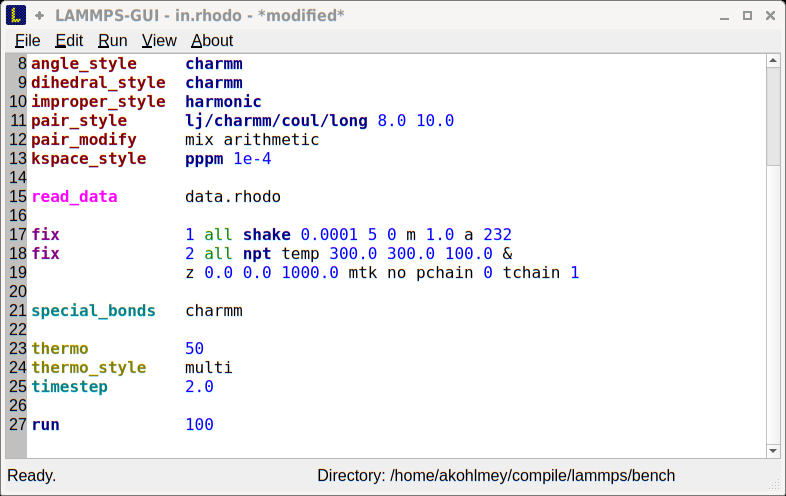
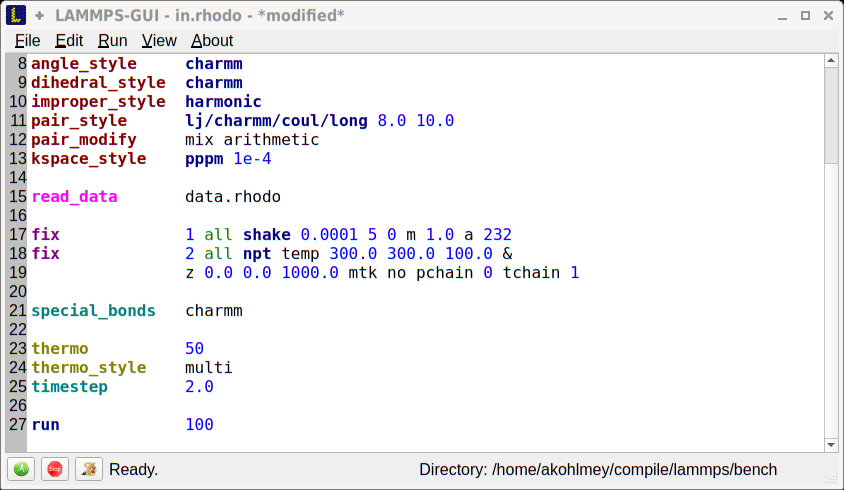
update docs for LAMMPS GUI

diff --git a/doc/src/Howto_lammps_gui.rst b/doc/src/Howto_lammps_gui.rst
@@ -65,12 +65,13 @@ Running LAMMPS
 ^^^^^^^^^^^^^^
 
 From within the LAMMPS GUI main window LAMMPS can be started either from
-the ``Run`` menu or by the hotkey `Ctrl-Enter` (`Command-Enter` on
-macOS).  LAMMPS is running in a separate thread, so the GUI will stay
-responsive and thus is capable to interact with the calculation and
-access its data.  It is important to note, that LAMMPS is using the
-contents of the input buffer for the run, **not** the file it was read
-from. If there are unsaved changes in the buffer, they *will* be used.
+the ``Run`` menu, by the hotkey `Ctrl-Enter` (`Command-Enter` on macOS),
+or by clicking on the green button in the status bar.  LAMMPS runs in a
+separate thread, so the GUI stays responsive and thus it is able to
+interact with the calculation and access its data.  It is important to
+note, that LAMMPS is using the contents of the input buffer for the run,
+**not** the file it was read from. If there are unsaved changes in the
+buffer, they *will* be used.
 
 .. image:: JPG/lammps-gui-running.png
    :align: center
@@ -82,48 +83,59 @@ contain the selected number of threads, if thread-parallel acceleration
 was selected in the ``Preferences`` dialog.  On the right side, a
 progress bar is shown that displays the estimated progress on the
 current :doc:`run command <run>`.  Additionally, two windows will open:
-the log window with the captured screen output and the chart window
-with a line graph created from the thermodynamic output of the run.
+the log window with the captured screen output and the chart window with
+a line graph created from the thermodynamic output of the run.
 
 The run can be stopped cleanly by using either the ``Stop LAMMPS`` entry
-in the ``Run`` menu or with the hotkey `Ctrl-/` (`Command-/` on macOS).
-This will cause that the running LAMMPS process will complete the
-current iteration and then stop. This is equivalent to the command
-`timer timeout 0 <timer>` and implemented by calling the
-:cpp:func:`lammps_force_timeout()` function of the LAMMPS C-library
-interface.
+in the ``Run`` menu, the hotkey `Ctrl-/` (`Command-/` on macOS), or
+clicking on the red button in the status bar.  This will cause that the
+running LAMMPS process will complete the current iteration and then
+stop.  This is equivalent to the command `timer timeout 0 <timer>` and
+implemented by calling the :cpp:func:`lammps_force_timeout()` function
+of the LAMMPS C-library interface.
 
 
 Viewing Snapshot Images
 ^^^^^^^^^^^^^^^^^^^^^^^
 
-By selecting the ``View Image`` entry in the ``Run`` menu or by hitting
-the `Ctrl-I` (`Command-I` on macOS) hotkey, LAMMPS gui will issue a
+By selecting the ``View Image`` entry in the ``Run`` menu, by hitting
+the `Ctrl-I` (`Command-I` on macOS) hotkey or by clicking on the
+"palette" button in the status bar, LAMMPS GUI will issue a
 :doc:`write_dump image <dump_image>` command and read the resulting
-snapshot image into an image viewer window.
+snapshot image into an image viewer window.  When possible, LAMMPS
+GUI will try to detect which elements the atoms correspond to (via
+their mass) and then colorize them accordingly. Otherwise just some
+predefined sequence of colors are assigned to different atom types.
 
 .. image:: JPG/lammps-gui-image.png
    :align: center
    :scale: 50%
 
-The image size, some default image quality settings, and some colors
-can be changed in the ``Preferences`` dialog window.  From the image
-viewer window further adjustments can be made: high-quality rendering,
-anti-aliasing, display of box or axes, zoom factor. The the image can
-be rotated horizontally and vertically and it is possible to only
-display the atoms within a predefined group (default is "all").
-After each change, the image is rendered again and the display updated.
+The default image size, some default image quality settings, the view
+style and some colors can be changed in the ``Preferences`` dialog
+window.  From the image viewer window further adjustments can be made:
+actual image size, high-quality rendering, anti-aliasing, view style,
+display of box or axes, zoom factor. The the image can be rotated
+horizontally and vertically and it is possible to only display the atoms
+within a predefined group (default is "all").  After each change, the
+image is rendered again and the display updated.  The small palette icon
+on the top left will be colored while LAMMPS is running to render the
+image and it will be grayed out again, when it is done.  When there are
+many items to show and high quality images with anti-aliasing are
+requested, re-rendering can take several seconds.  From the ``File``
+menu, the shown image can be saved to a file permanently or copied into
+the cut-n-paste buffer for pasting into another application.
 
 
 Editor Functions
 ^^^^^^^^^^^^^^^^
 
-The editor has the usual functionality that similar programs have: text
-selection via mouse or with cursor moves while holding the Shift key,
-Cut, Copy, Paste, Undo, Redo.  All of these editing functions are available
-via hotkeys.  When trying to exit the editor with a modified buffer, a
-dialog will pop up asking whether to cancel the quit, or don't save or
-save the buffer's contents to a file.
+The editor has most the usual functionality that similar programs have:
+text selection via mouse or with cursor moves while holding the Shift
+key, Cut, Copy, Paste, Undo, Redo.  All of these editing functions are
+available via hotkeys.  When trying to exit the editor with a modified
+buffer, a dialog will pop up asking whether to cancel the quit, or don't
+save or save the buffer's contents to a file.
 
 Context Specific Help
 ^^^^^^^^^^^^^^^^^^^^^
@@ -285,6 +297,13 @@ General Settings:
 - *Replace image window on new render:* when checked, an existing
   chart window will be replaced when a new snapshot image is requested,
   otherwise each command will create a new image window.
+- *Path to LAMMPS Shared Library File:* this options is only available
+  when LAMMPS GUI was compiled to load the LAMMPS library at run time
+  instead of being linked to it directly.  With the ``Browse..`` button
+  or by changing the text, a different shared library file with a
+  different compilation of LAMMPS with different settings or from a
+  different version can be loaded.  After this setting was changed,
+  LAMMPS GUI needs to be re-launched.
 - *Select Default Font:* Opens a font selection dialog where the type
   and size for the default font (used for everything but the editor and
   log) of the application can be set.
@@ -294,10 +313,10 @@ General Settings:
 Accelerators:
 ^^^^^^^^^^^^^
 
-This tab enables to select accelerator settings and is equivalent to
-using the `-suffix` and `-package` flags on the command line.  Only
-settings supported by the LAMMPS library and local hardware are
-available.  The `Number of threads` field allows to set the maximum
+This tab enables to select which accelerator package is used and is
+equivalent to using the `-suffix` and `-package` flags on the command
+line.  Only settings supported by the LAMMPS library and local hardware
+are available.  The `Number of threads` field allows to set the maximum
 number of threads for the accelerator packages that use threads.
 
 Snapshot Image:
@@ -306,14 +325,16 @@ Snapshot Image:
 This tab allows to set some defaults for the snapshot images displayed
 in the ``Image Viewer`` window, like its dimensions and the zoom factor
 applied.  The *Antialias* switch requests to render images with twice
-the number of pixels for width and height and then uses a bi-cubic
-scaling algorithm to rescale them back to the requested size.  This
-produces higher quality images with smoother edges at the expense of
-requiring more CPU time to render the image.  The *HQ Image mode* option
-turns on using a screen space ambient occlusion mode (SSAO) when
-rendering images.  This is also more time consuming, but produces a more
-'spatial' representation of the system.  Finally there are a couple of
-drop down lists to select the background and box color.
+the number of pixels for width and height and then smoothly scales the
+image back to the requested size.  This produces higher quality images
+with smoother edges at the expense of requiring more CPU time to render
+the image.  The *HQ Image mode* option turns on using a screen space
+ambient occlusion mode (SSAO) when rendering images.  This is also more
+time consuming, but produces a more 'spatial' representation of the
+system.  The *VDW Style* checkbox selects whether atoms are represented
+by space filling spheres when checked or by smaller spheres and stick.
+Finally there are a couple of drop down lists to select the background
+and box color.
 
 
 Hotkeys
